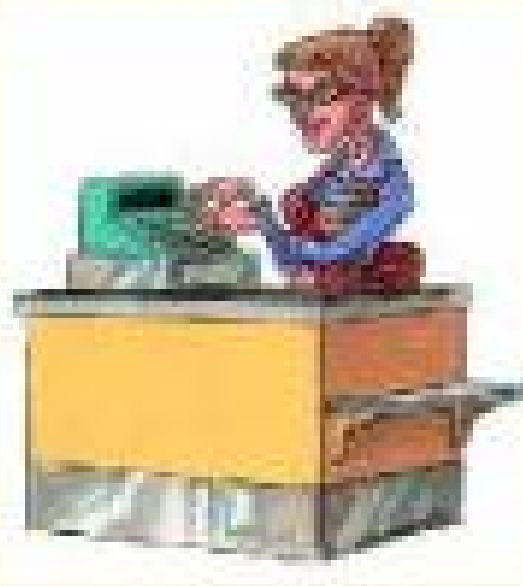
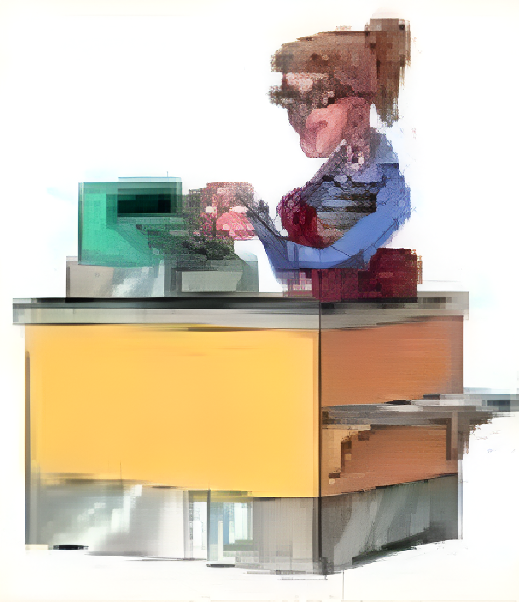
Mejora codigo
Hice mejores imagenes, sacar codigo estatico, nuevo servlet, llamadas simplificadas. Faltaria encriptar datos sensibles y claves de acceso, y como tratar posibles errores de ejecucion

Changed region(s): [[0.0, 0.0, 1.0, 0.9829], [0.0612, 0.8908, 0.1836, 0.9215], [0.2753, 0.8601, 0.3059, 0.8908]]

diff --git a/WEB-INF/classes/Visualizar.java b/WEB-INF/classes/Visualizar.java
@@ -1,6 +1,5 @@
 import java.io.*;
 
-import baseDatos.ConexionBD;
 import jakarta.servlet.*;
 import jakarta.servlet.http.*;
 
@@ -11,8 +10,8 @@ public class Visualizar extends HttpServlet{
         
         response.setContentType("text/html");
 
-        //Se obtiene el carrito
-        CarritoBean carrito=AyudanteCarrito.obtenerCarrito(request);
+        //Se obtiene el ayudante
+        AyudanteCarrito ayuda=new AyudanteCarrito();
 
         //Se ejecuta una de las tres acciones posibles
         String accion=request.getServletPath();
@@ -26,7 +25,7 @@ public class Visualizar extends HttpServlet{
 
             //Accion para eliminar un cd
             case "/eliminar":
-                AyudanteCarrito.eliminarCd(carrito, request.getParameter("seleccion"));
+                ayuda.eliminarCd(request);
                 Dispatcher.dispatch(request,response, "visualizacion.jsp");
                 break;
 
@@ -35,51 +34,9 @@ public class Visualizar extends HttpServlet{
                 Dispatcher.dispatch(request,response, "iniciarSesion.jsp");
                 break;
 
-            //Accion para iniciar sesion e ir a la ultima pestana
-            case "/iniciar":
-                Boolean validado=AyudanteBase.validar(request.getParameter("correo"),
-                    request.getParameter("contrasena"));
-
-                //Si inicio sesion, va al fin. Si no, imprime error
-                if(validado){
-                    AyudanteBase.crearPedido(request);
-                    Dispatcher.dispatch(request,response, "fin.jsp");
-                }else{
-                    escribirError(request, "Nombre o contraseña incorrectos.");
-                    Dispatcher.dispatch(request,response, "iniciarSesion.jsp");
-                }
-                break;
-
-            //Accion para ir a crear un nuevo usuario
-            case "/crear":
-                Dispatcher.dispatch(request,response, "crearUsuario.jsp");
-                break;
-
-            //Accion para pagar con un usuario recien creado, y va a la ultima pestaña
-            case "/crearYPagar":
-                int estado=AyudanteBase.crearUsuario(request.getParameter("correo"),
-                    request.getParameter("contrasena"), request.getParameter("tipo"), 
-                    request.getParameter("numero"));
-
-                //Si se creo correctamente, va al fin. Si no, imprime error 
-                if(estado==0){
-                    AyudanteBase.crearPedido(request);
-                    Dispatcher.dispatch(request,response, "fin.jsp");
-                }else{
-                    escribirError(request, "No se ha podido crear al usuario.");
-                    Dispatcher.dispatch(request,response, "crearUsuario.jsp");
-                }
-                break;
-    
-
             default:
                 System.out.println("Error al reconocer al formulario");
                 break;
         }
-    }
-
-    private void escribirError(HttpServletRequest peticion,String error){
-        HttpSession sesion=peticion.getSession();
-        sesion.setAttribute("mensajeError",error);
     }
 }

diff --git a/WEB-INF/classes/IniciarSesion.java b/WEB-INF/classes/IniciarSesion.java
@@ -1,0 +1,66 @@
+import java.io.*;
+
+import jakarta.servlet.*;
+import jakarta.servlet.http.*;
+
+import carrito.*;
+
+public class IniciarSesion extends HttpServlet{
+    public void doGet(HttpServletRequest request, HttpServletResponse response) throws ServletException, IOException{
+        
+        response.setContentType("text/html");
+
+        //Se obtiene el ayudante
+        AyudanteBase ayuda=new AyudanteBase();
+
+        //Se ejecuta una de las tres acciones posibles
+        String accion=request.getServletPath();
+        RequestDispatcher rd;
+        switch(accion){
+
+            //Accion para iniciar sesion e ir a la ultima pestana
+            case "/iniciar":
+                Boolean validado=ayuda.validar(request.getParameter("correo"),
+                    request.getParameter("contrasena"));
+
+                //Si inicio sesion, va al fin. Si no, imprime error
+                if(validado){
+                    ayuda.crearPedido(request, new AyudanteCarrito().obtenerCarrito(request));
+                    Dispatcher.dispatch(request,response, "fin.jsp");
+                }else{
+                    escribirError(request, "Nombre o contraseña incorrectos.");
+                    Dispatcher.dispatch(request,response, "iniciarSesion.jsp");
+                }
+                break;
+
+            //Accion para ir a crear un nuevo usuario
+            case "/crear":
+                Dispatcher.dispatch(request,response, "crearUsuario.jsp");
+                break;
+
+            //Accion para pagar con un usuario recien creado, y va a la ultima pestaña
+            case "/crearYPagar":
+                int estado=ayuda.crearUsuario(request);
+
+                //Si se creo correctamente, va al fin. Si no, imprime error 
+                if(estado==0){
+                    ayuda.crearPedido(request, new AyudanteCarrito().obtenerCarrito(request));
+                    Dispatcher.dispatch(request,response, "fin.jsp");
+                }else{
+                    escribirError(request, "No se ha podido crear al usuario.");
+                    Dispatcher.dispatch(request,response, "crearUsuario.jsp");
+                }
+                break;
+    
+
+            default:
+                System.out.println("Error al reconocer al formulario");
+                break;
+        }
+    }
+
+    private void escribirError(HttpServletRequest peticion,String error){
+        HttpSession sesion=peticion.getSession();
+        sesion.setAttribute("mensajeError",error);
+    }
+}

diff --git a/WEB-INF/classes/AyudanteCarrito.java b/WEB-INF/classes/AyudanteCarrito.java
@@ -7,7 +7,7 @@ import carrito.*;
 public class AyudanteCarrito {
 
     //Metodo para obtener el carrito desde la sesion. Tambien lo registra si hace falta
-    public static CarritoBean obtenerCarrito(HttpServletRequest peticion){
+    public CarritoBean obtenerCarrito(HttpServletRequest peticion){
         HttpSession sesion=peticion.getSession();
         CarritoBean carrito=(CarritoBean)sesion.getAttribute("carrito");
 
@@ -20,7 +20,12 @@ public class AyudanteCarrito {
     }
 
     //Metodo para anadir cds al carrito
-    public static void anadirCarrito(CarritoBean carrito, String descripcion, Integer cantidad){
+    public void anadirCarrito(HttpServletRequest request){
+
+        CarritoBean carrito=this.obtenerCarrito(request);
+        String descripcion=request.getParameter("titulo");
+        Integer cantidad=Integer.parseInt(request.getParameter("cantidad"));
+
         //La cantidad debe ser positiva
         if(cantidad>0){
             //Si ya estaba se incrementa
@@ -36,12 +41,14 @@ public class AyudanteCarrito {
     }
 
     //Metodo para borrar un cd del carrito
-    public static void eliminarCd(CarritoBean carrito, String cd){
+    public void eliminarCd(HttpServletRequest request){
+        CarritoBean carrito=this.obtenerCarrito(request);
+        String cd= request.getParameter("seleccion");
         carrito.getCds().remove(cd);
     }
 
     //Metodo para vaciar todo el contenido del carrito
-    public static void vaciar(CarritoBean carrito){
-        carrito.getCds().clear();
+    public void vaciar(HttpServletRequest request){
+        this.obtenerCarrito(request).getCds().clear();
     }
 }

diff --git a/WEB-INF/classes/AyudanteBase.java b/WEB-INF/classes/AyudanteBase.java
@@ -10,9 +10,13 @@ import carrito.CarritoBean;
 public class AyudanteBase {
 
     //Metodo para crear un usuario. Devuelve 0 si hubo exito, 1 si fracaso
-    public static int crearUsuario(String correo, String contrasena, String tipo, String numero){
+    public int crearUsuario(HttpServletRequest request){
 
         int retorno=-1;
+        String correo=request.getParameter("correo"),
+               contrasena=request.getParameter("contrasena"), 
+               tipo=request.getParameter("tipo"), 
+               numero=request.getParameter("numero");
 
         try{
             ConexionBD conexion = new ConexionBD();
@@ -26,7 +30,7 @@ public class AyudanteBase {
     }
 
     //Metodo para comprobar si las credenciales son correctas.
-    public static Boolean validar(String correo, String contrasena){
+    public Boolean validar(String correo, String contrasena){
 
         Boolean retorno=false;
 
@@ -42,12 +46,11 @@ public class AyudanteBase {
     }
 
     //Metodo para crear un nuevo pedido
-    public static void crearPedido(HttpServletRequest request){
+    public void crearPedido(HttpServletRequest request, CarritoBean carrito){
 
-        CarritoBean carrito=AyudanteCarrito.obtenerCarrito(request);
+        AyudanteCarrito ayuda=new AyudanteCarrito();
+
         carrito.setPropietario(request.getParameter("correo"));
-        System.out.println(request.getParameter("correo"));
-        System.out.println(carrito.getImporte());
         
         int id=-1;
         try{

diff --git a/WEB-INF/classes/Seleccionar.java b/WEB-INF/classes/Seleccionar.java
@@ -10,12 +10,11 @@ public class Seleccionar extends HttpServlet{
         
         response.setContentType("text/html");
 
-        //Se obtiene el carrito
-        CarritoBean carrito=AyudanteCarrito.obtenerCarrito(request);
+        //Se obtiene el ayudante
+        AyudanteCarrito ayuda=new AyudanteCarrito();
         
         //Se anade el cd al carrito
-        AyudanteCarrito.anadirCarrito(carrito, request.getParameter("titulo"), 
-            Integer.parseInt(request.getParameter("cantidad")));
+        ayuda.anadirCarrito(request);
         
         //Se devuelve la pagina de visualizacion del carrito
         Dispatcher.dispatch(request,response, "visualizacion.jsp");

diff --git a/WEB-INF/classes/Finalizar.java b/WEB-INF/classes/Finalizar.java
@@ -11,7 +11,8 @@ public class Finalizar extends HttpServlet{
         response.setContentType("text/html");
 
         //Se obtiene el carrito y se vacia
-        AyudanteCarrito.vaciar(AyudanteCarrito.obtenerCarrito(request));
+        AyudanteCarrito ayuda=new AyudanteCarrito();
+        ayuda.vaciar(request);
 
         //Volver a pagina principal
         Dispatcher.dispatch(request,response, "index.html");
